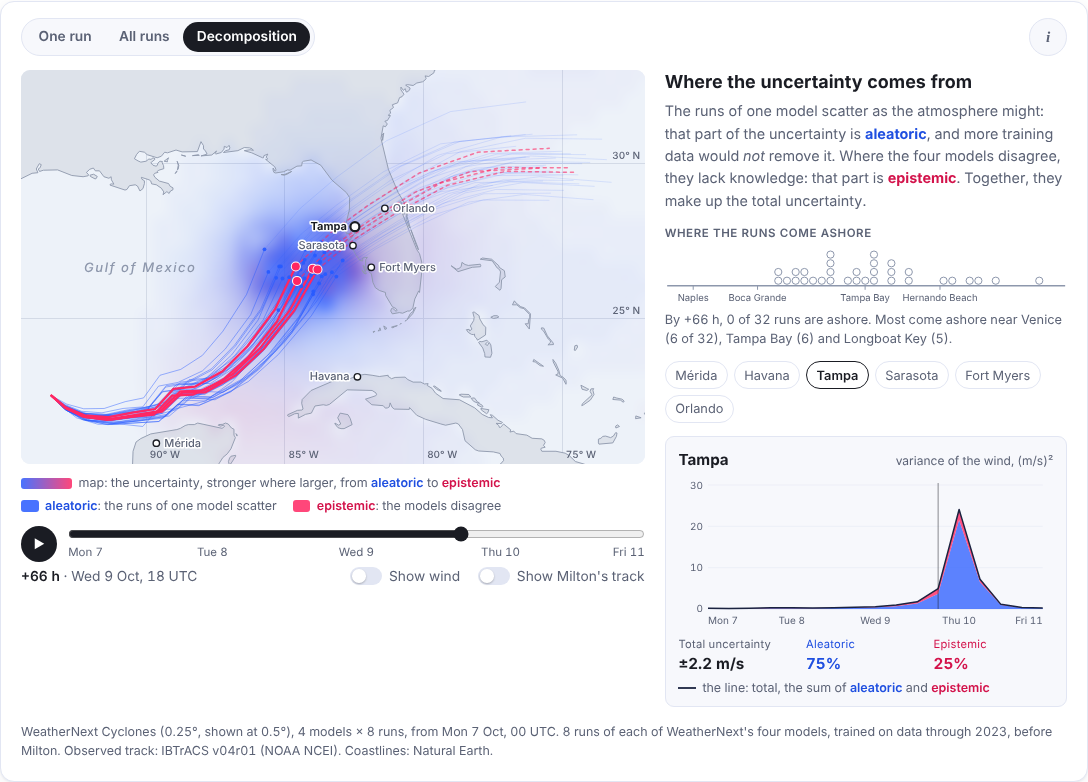
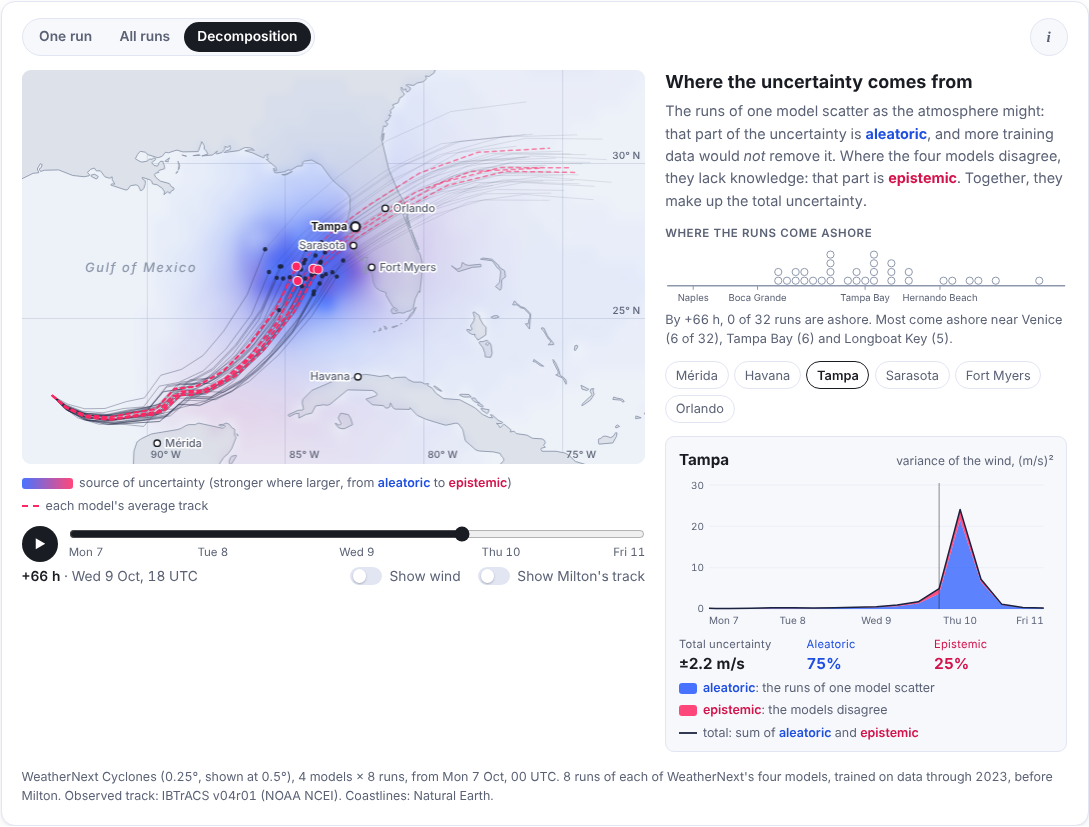
Docs: Decomposition's color is the uncertainty's only; the models' averages dashed
- The runs are ink in Decomposition as in All runs, on the map and in
  the strip: the map's shade is the one thing in color.
- Every model's average track is dashed all along: an average of runs,
  which no run need follow; how far the averages lie apart is what the
  models disagree on.
- The map's legend names the shade "source of uncertainty" and the
  dashed tracks; the chart's card names its areas and its line.

Claude-Session: https://claude.ai/code/session_019qiuyDKNRuYRdhX6wyyP83

diff --git a/docs/source/demos/milton/assets/demo.js b/docs/source/demos/milton/assets/demo.js
@@ -750,8 +750,8 @@
         }
         const [lat, lon] = position(run.points, hours);
         dot(lat, lon, 5.5, rgba(colors.ink, 1), colors.surface);
-      } else if (state.view === "ensemble") {
-        // the tracks recede a little behind the outline
+      } else {
+        // every run in ink, in All runs and in Decomposition alike, where the map's color is the uncertainty's
         for (const run of m.tracks) {
           context.lineWidth = 1;
           context.strokeStyle = rgba(colors.ink, 0.1);
@@ -761,6 +761,21 @@
           path(run.points, 0, hours);
           context.stroke();
         }
+        // every model's average track, dashed all along: an average of runs, which no run need follow;
+        // how far the models' averages lie apart is what they disagree on
+        const means = state.view === "split" ? meanTracks() : [];
+        context.setLineDash([4, 4]);
+        for (const mean of means) {
+          context.lineWidth = 1.5;
+          context.strokeStyle = rgba(colors.red, 0.55);
+          path(mean, hours, last);
+          context.stroke();
+          context.lineWidth = 2;
+          context.strokeStyle = rgba(colors.red, 1);
+          path(mean, 0, hours);
+          context.stroke();
+        }
+        context.setLineDash([]);
         for (const run of m.tracks) {
           const [lat, lon] = position(run.points, hours);
           dot(lat, lon, 2.2, rgba(colors.ink, 0.9));
@@ -769,39 +784,6 @@
         for (const run of m.tracks) {
           if (run.landfall && hours >= run.landfall.hours) {
             dot(run.landfall.lat, run.landfall.lon, 3, rgba(colors.ink, 1), colors.surface);
-          }
-        }
-      } else {
-        for (const run of m.tracks) {
-          context.lineWidth = 1;
-          context.strokeStyle = rgba(colors.blue, 0.13);
-          path(run.points, hours, last);
-          context.stroke();
-          context.strokeStyle = rgba(colors.blue, 0.45);
-          path(run.points, 0, hours);
-          context.stroke();
-        }
-        const means = meanTracks();
-        for (const mean of means) {
-          context.setLineDash([3, 4]);
-          context.lineWidth = 1.5;
-          context.strokeStyle = rgba(colors.red, 0.6);
-          path(mean, hours, last);
-          context.stroke();
-          context.setLineDash([]);
-          context.lineWidth = 2.25;
-          context.strokeStyle = rgba(colors.red, 1);
-          path(mean, 0, hours);
-          context.stroke();
-        }
-        for (const run of m.tracks) {
-          const [lat, lon] = position(run.points, hours);
-          dot(lat, lon, 1.9, rgba(colors.blue, 0.95));
-        }
-        // where the runs have come ashore so far
-        for (const run of m.tracks) {
-          if (run.landfall && hours >= run.landfall.hours) {
-            dot(run.landfall.lat, run.landfall.lon, 3, rgba(colors.blue, 1), colors.surface);
           }
         }
         for (const mean of means) {
@@ -1241,7 +1223,6 @@
     let shoreSummary = "";
     const buildShore = () => {
       shore.hidden = state.view === "one";
-      shore.classList.toggle("milton-demo-shore-split", state.view === "split"); // the runs are blue there
       shoreMarks = [];
       if (shore.hidden) return;
       const m = model();
@@ -1434,9 +1415,10 @@
         if (background) i.style.background = background;
         return i;
       };
-      const line = (color, thin = false) => {
+      const line = (color, thin = false, dashed = false) => {
         const i = el("i", thin ? "line thin" : "line");
         i.style.borderTopColor = color;
+        if (dashed) i.style.borderTopStyle = "dashed";
         return i;
       };
       const ink = (alpha) => rgba(colors.ink, alpha);
@@ -1461,17 +1443,20 @@
         // the map's shade: how large the uncertainty is, and its color, which kind it mostly is
         const ramp = `linear-gradient(90deg, ${rgba(colors.blue, 0.85)}, ${rgba(split(0.5), 0.85)}, ${rgba(colors.red, 0.85)})`;
         items.push(
-          item(swatch("ramp", ramp), ["map: the uncertainty, stronger where larger, from ", word("aleatoric"), " to ", word("epistemic")]),
-          item(swatch("", rgba(colors.blue, 0.85)), [word("aleatoric"), ": the runs of one model scatter"]),
-          item(swatch("", rgba(colors.red, 0.85)), [word("epistemic"), `: the ${groups()} disagree`]),
+          item(swatch("ramp", ramp), ["source of uncertainty (stronger where larger, from ", word("aleatoric"), " to ", word("epistemic"), ")"]),
+          item(line(rgba(colors.red, 1), false, true), "each model's average track"),
         );
         if (state.wind) items.push(item(line(ink(0.42)), "where any run has tropical-storm-force wind (34 kt)"));
       }
       if (state.truth) items.push(item(swatch("dashed"), "Milton's observed track"));
       legend.replaceChildren(...items);
-      // the chart's line in Decomposition; elsewhere, its numbers say what its lines are
+      // the chart's areas and line in Decomposition; elsewhere, its numbers say what its lines are
       chartKey.hidden = state.view !== "split";
-      chartKey.replaceChildren(item(line(ink(0.9)), ["the line: total, the sum of ", word("aleatoric"), " and ", word("epistemic")]));
+      chartKey.replaceChildren(
+        item(swatch("", rgba(colors.blue, 0.85)), [word("aleatoric"), ": the runs of one model scatter"]),
+        item(swatch("", rgba(colors.red, 0.85)), [word("epistemic"), `: the ${groups()} disagree`]),
+        item(line(ink(0.9)), ["total: sum of ", word("aleatoric"), " and ", word("epistemic")]),
+      );
     };
     const footnote = () => {
       const m = model();

diff --git a/docs/source/demos/milton/assets/demo.css b/docs/source/demos/milton/assets/demo.css
@@ -574,10 +574,6 @@ span.milton-demo-epistemic {
   stroke: var(--md-coast);
 }
 
-.milton-demo-shore-split .milton-demo-shore-chart .run:not(.ahead) {
-  fill: var(--md-blue);
-}
-
 .milton-demo-shore-chart .milton line {
   stroke: var(--md-text);
   stroke-width: 1.5;
